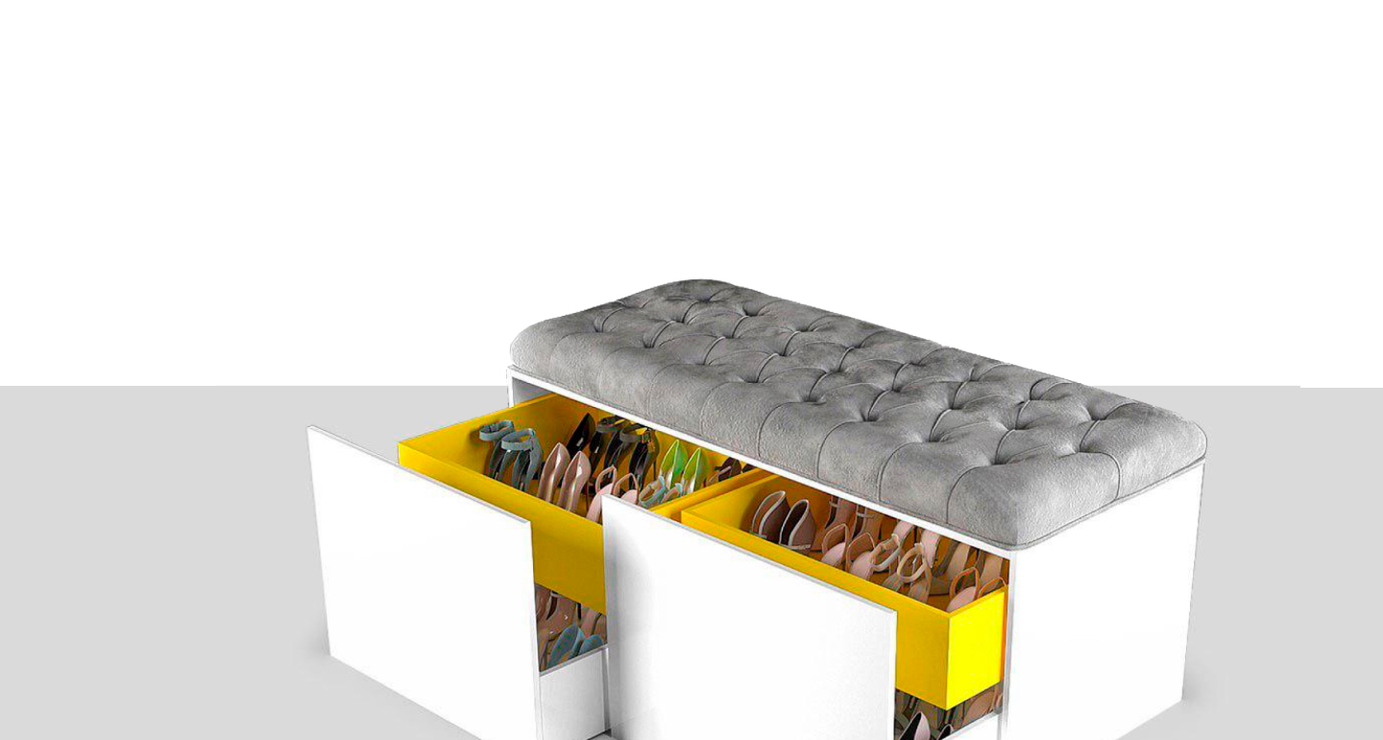
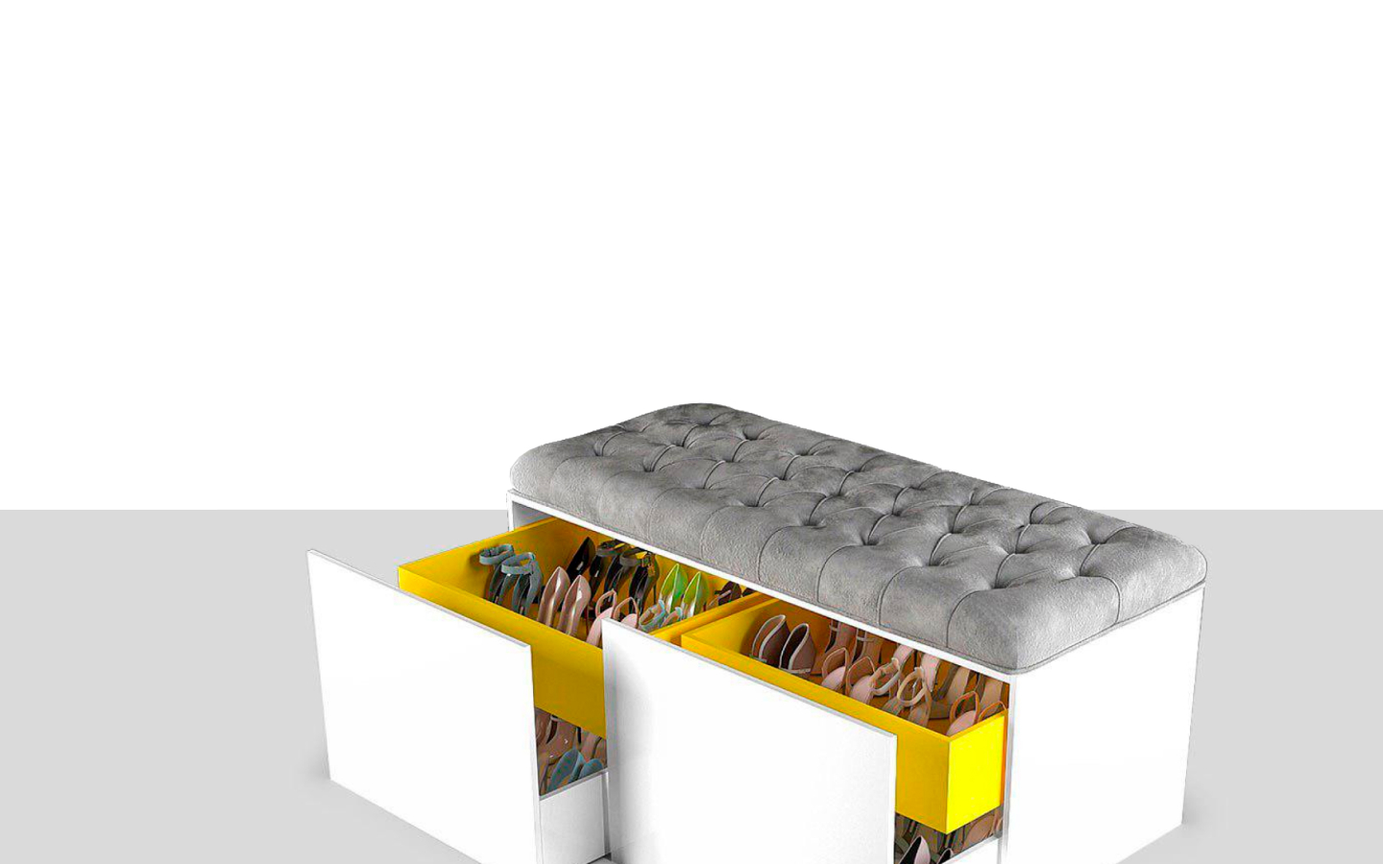
Hero

diff --git a/src/css/main.min.css b/src/css/main.min.css
@@ -1,1 +1,1 @@
-@font-face{font-family:'TT Norms';src:url(../fonts/norms/subset-TTNorms-Regular.woff2) format("woff2"),url(../fonts/norms/subset-TTNorms-Regular.woff) format("woff");font-style:normal;font-weight:400;font-display:swap}@font-face{font-family:Montserrat;src:url(../fonts/montserrat/Montserrat-Regular.woff2) format("woff2"),url(../fonts/montserrat/Montserrat-Regular.woff) format("woff");font-style:normal;font-weight:400;font-display:swap}@font-face{font-family:Montserrat;src:url(../fonts/montserrat/Montserrat-Medium.woff2) format("woff2"),url(../fonts/montserrat/Montserrat-Medium.woff) format("woff");font-style:normal;font-weight:500;font-display:swap}@font-face{font-family:Montserrat;src:url(../fonts/montserrat/Montserrat-SemiBold.woff2) format("woff2"),url(../fonts/montserrat/Montserrat-SemiBold.woff) format("woff");font-style:normal;font-weight:600;font-display:swap}/*! normalize.css v3.0.3 | MIT License | github.com/necolas/normalize.css */html{font-family:sans-serif;-ms-text-size-adjust:100%;-webkit-text-size-adjust:100%}body{margin:0}article,aside,details,figcaption,figure,footer,header,hgroup,main,menu,nav,section,summary{display:block}audio,canvas,progress,video{display:inline-block;vertical-align:baseline}audio:not([controls]){display:none;height:0}[hidden],template{display:none}a{background-color:transparent}a:active,a:hover{outline:0}abbr[title]{border-bottom:1px dotted}b,strong{font-weight:700}dfn{font-style:italic}small{font-size:80%}sub,sup{font-size:67%;line-height:0;position:relative;vertical-align:baseline}sup{top:-.5em}sub{bottom:-.25em}img{border:0}svg:not(:root){overflow:hidden}hr{-webkit-box-sizing:content-box;box-sizing:content-box;height:0}pre{overflow:auto}code,kbd,pre,samp{font-family:monospace,monospace;font-size:1em}button,input,optgroup,select,textarea{color:inherit;font:inherit;margin:0}button{overflow:visible}button,select{text-transform:none}button,html input[type=button],input[type=reset],input[type=submit]{-webkit-appearance:button;cursor:pointer}button[disabled],html input[disabled]{cursor:default}button::-moz-focus-inner,input::-moz-focus-inner{border:0;padding:0}input{line-height:normal}input[type=checkbox],input[type=radio]{-webkit-box-sizing:border-box;box-sizing:border-box;padding:0}input[type=number]::-webkit-inner-spin-button,input[type=number]::-webkit-outer-spin-button{height:auto}input[type=search]{-webkit-appearance:textfield;-webkit-box-sizing:content-box;box-sizing:content-box}input[type=search]::-webkit-search-cancel-button,input[type=search]::-webkit-search-decoration{-webkit-appearance:none}legend{border:0;padding:0}textarea{overflow:auto}optgroup{font-weight:700}table{border-collapse:collapse;border-spacing:0}td,th{padding:0}blockquote,body,caption,dd,dl,fieldset,figure,form,h1,h2,h3,h4,h5,h6,hr,legend,ol,p,pre,table,td,th,ul{margin:0;padding:0}abbr[title],dfn[title]{cursor:help}ins,u{text-decoration:none}ins{border-bottom:1px solid}a:-webkit-any-link{text-decoration:none}a,a:active,a:focus,a:hover,a:visited{text-decoration:none}button,fieldset,input,textarea{background:0;border:0;outline:0;margin:0;padding:0}ol,ul{padding:0;list-style:none}address{font-style:unset}html{-webkit-box-sizing:border-box;box-sizing:border-box}*,:after,:before{-webkit-box-sizing:inherit;box-sizing:inherit}svg[class^=i-]{stroke-width:1.4}body{font-family:'TT Norms',sans-serif;font-weight:400;font-size:16px;line-height:1.6;color:#1f2020}h1{font-size:27px}h2{font-size:27px}h3{font-size:24px}a,a:active,a:focus,a:visited{color:#1f2020}.container{margin-right:auto;margin-left:auto;padding-left:3.895vw;padding-right:3.895vw}html.has-scroll-smooth{overflow:hidden}html.has-scroll-dragging{-webkit-user-select:none;-moz-user-select:none;-ms-user-select:none;user-select:none}.has-scroll-smooth body{overflow:hidden}.c-scrollbar{position:absolute;right:0;top:0;width:11px;height:100vh;-webkit-transform-origin:center right;-ms-transform-origin:center right;transform-origin:center right;-webkit-transition:opacity .3s,-webkit-transform .3s;transition:opacity .3s,-webkit-transform .3s;-o-transition:transform .3s,opacity .3s;transition:transform .3s,opacity .3s;transition:transform .3s,opacity .3s,-webkit-transform .3s;opacity:0}.c-scrollbar:hover{-webkit-transform:scaleX(1.45);-ms-transform:scaleX(1.45);transform:scaleX(1.45);opacity:1}.has-scroll-dragging .c-scrollbar,.has-scroll-scrolling .c-scrollbar{opacity:1}.c-scrollbar_thumb{position:absolute;top:0;right:0;background-color:#000;opacity:.5;width:7px;border-radius:10px;margin:2px;cursor:-webkit-grab;cursor:grab}.has-scroll-dragging .c-scrollbar_thumb{cursor:-webkit-grabbing;cursor:grabbing}.img{position:relative;width:100%;padding-bottom:56.25%}.img__i{position:absolute;top:0;left:0;width:100%;height:100%}.img__i:not(img){background-size:cover;background-repeat:no-repeat;background-position:center center}img.img__i{-o-object-fit:cover;object-fit:cover}.btn{font-family:Montserrat,sans-serif;font-weight:500;font-size:13px;letter-spacing:-.02em;height:40px;padding:0 24px;border:1px solid #db2145}.btn,.btn:active,.btn:focus,.btn:visited{color:#db2145}a.btn{display:-webkit-box;display:-ms-flexbox;display:flex;-webkit-box-align:center;-ms-flex-align:center;align-items:center;-webkit-box-pack:center;-ms-flex-pack:center;justify-content:center}.link{font-family:Montserrat,sans-serif;font-weight:500}.link,.link:active,.link:focus,.link:visited{color:#db2145}.link::before{content:'';display:inline-block;vertical-align:middle;width:32px;height:1px;margin-right:12px;background:#db2145}.burger{height:24px;display:-webkit-box;display:-ms-flexbox;display:flex;-webkit-box-align:start;-ms-flex-align:start;align-items:flex-start;-webkit-box-pack:start;-ms-flex-pack:start;justify-content:flex-start;-webkit-box-orient:vertical;-webkit-box-direction:normal;-ms-flex-direction:column;flex-direction:column;-webkit-perspective:200px;perspective:200px;-webkit-transform:translateZ(0);transform:translateZ(0);-webkit-transition:opacity .4s cubic-bezier(.165,.84,.44,1);-o-transition:opacity .4s cubic-bezier(.165,.84,.44,1);transition:opacity .4s cubic-bezier(.165,.84,.44,1)}.burger-icon{position:relative;width:32px;height:9px}.burger-icon-bottom,.burger-icon-last,.burger-icon-top{display:block;width:100%;height:2px;position:absolute;left:0;-webkit-transform:translateZ(0);transform:translateZ(0);-webkit-transition:-webkit-transform .6s cubic-bezier(.165,.84,.44,1);transition:-webkit-transform .6s cubic-bezier(.165,.84,.44,1);-o-transition:transform .6s cubic-bezier(.165,.84,.44,1);transition:transform .6s cubic-bezier(.165,.84,.44,1);transition:transform .6s cubic-bezier(.165,.84,.44,1),-webkit-transform .6s cubic-bezier(.165,.84,.44,1)}.burger-icon-bottom::after,.burger-icon-bottom::before,.burger-icon-last::after,.burger-icon-last::before,.burger-icon-top::after,.burger-icon-top::before{content:'';position:absolute;top:0;left:0;width:100%;height:100%;background:#000}.burger-icon-bottom::before,.burger-icon-last::before,.burger-icon-top::before{-webkit-transform-origin:right;-ms-transform-origin:right;transform-origin:right;-webkit-transform:scaleX(1) translateZ(0);transform:scaleX(1) translateZ(0);-webkit-transition:-webkit-transform .6s cubic-bezier(.165,.84,.44,1) .2s;transition:-webkit-transform .6s cubic-bezier(.165,.84,.44,1) .2s;-o-transition:transform .6s cubic-bezier(.165,.84,.44,1) .2s;transition:transform .6s cubic-bezier(.165,.84,.44,1) .2s;transition:transform .6s cubic-bezier(.165,.84,.44,1) .2s,-webkit-transform .6s cubic-bezier(.165,.84,.44,1) .2s}.burger-icon-bottom::after,.burger-icon-last::after,.burger-icon-top::after{-webkit-transform-origin:left;-ms-transform-origin:left;transform-origin:left;-webkit-transform:scaleX(0) translateZ(0);transform:scaleX(0) translateZ(0);-webkit-transition:-webkit-transform .6s cubic-bezier(.165,.84,.44,1);transition:-webkit-transform .6s cubic-bezier(.165,.84,.44,1);-o-transition:transform .6s cubic-bezier(.165,.84,.44,1);transition:transform .6s cubic-bezier(.165,.84,.44,1);transition:transform .6s cubic-bezier(.165,.84,.44,1),-webkit-transform .6s cubic-bezier(.165,.84,.44,1)}.burger-icon-top{top:0}.burger-icon-bottom{bottom:0}.burger-icon-bottom::before{-webkit-transform-origin:left;-ms-transform-origin:left;transform-origin:left}.burger-icon-bottom::after{-webkit-transform-origin:right;-ms-transform-origin:right;transform-origin:right}.burger-icon-last{bottom:-8px}.burger:hover .burger-icon-bottom::before,.burger:hover .burger-icon-last::before,.burger:hover .burger-icon-top::before{-webkit-transform:scaleX(0) translateZ(0);transform:scaleX(0) translateZ(0);-webkit-transition:-webkit-transform .6s cubic-bezier(.165,.84,.44,1);transition:-webkit-transform .6s cubic-bezier(.165,.84,.44,1);-o-transition:transform .6s cubic-bezier(.165,.84,.44,1);transition:transform .6s cubic-bezier(.165,.84,.44,1);transition:transform .6s cubic-bezier(.165,.84,.44,1),-webkit-transform .6s cubic-bezier(.165,.84,.44,1)}.burger:hover .burger-icon-bottom::after,.burger:hover .burger-icon-last::after,.burger:hover .burger-icon-top::after{-webkit-transform:scaleX(1) translateZ(0);transform:scaleX(1) translateZ(0);-webkit-transition:-webkit-transform .6s cubic-bezier(.165,.84,.44,1) .2s;transition:-webkit-transform .6s cubic-bezier(.165,.84,.44,1) .2s;-o-transition:transform .6s cubic-bezier(.165,.84,.44,1) .2s;transition:transform .6s cubic-bezier(.165,.84,.44,1) .2s;transition:transform .6s cubic-bezier(.165,.84,.44,1) .2s,-webkit-transform .6s cubic-bezier(.165,.84,.44,1) .2s}.burger.active .burger-icon-last{opacity:0}.burger.active .burger-icon-top{-webkit-transform:translateY(8px) rotate(45deg) translateZ(0);transform:translateY(8px) rotate(45deg) translateZ(0)}.burger.active .burger-icon-bottom{-webkit-transform:translateY(1px) rotate(-45deg) translateZ(0);transform:translateY(1px) rotate(-45deg) translateZ(0)}.header{z-index:1;position:fixed;top:0;left:0;right:0;width:100%}.header__inner{display:-webkit-box;display:-ms-flexbox;display:flex;-webkit-box-align:center;-ms-flex-align:center;align-items:center;-webkit-transition:opacity .4s cubic-bezier(.165,.84,.44,1);-o-transition:opacity .4s cubic-bezier(.165,.84,.44,1);transition:opacity .4s cubic-bezier(.165,.84,.44,1)}.header__logo{margin-right:5.2vw}.header__logo img{display:block;width:100px;height:85px}.header__nav ul{display:-webkit-box;display:-ms-flexbox;display:flex;-webkit-box-align:center;-ms-flex-align:center;align-items:center}.header__nav li:not(:last-child){margin-right:48px}.header__nav a{-webkit-transition:.25s ease;-o-transition:.25s ease;transition:.25s ease}.header__nav a:hover{opacity:.6}.header__phone{font-family:Montserrat,sans-serif;font-weight:500;font-size:12px;margin-left:auto}.header__btn,.header__burger{position:absolute;top:50%;-webkit-transform:translate(0,-50%);-ms-transform:translate(0,-50%);transform:translate(0,-50%);opacity:0;pointer-events:none}.header--primary .header__inner{opacity:0;pointer-events:none}.header--primary .header__btn,.header--primary .header__burger{opacity:1;pointer-events:auto}.header__btn{-webkit-transition:opacity .4s cubic-bezier(.165,.84,.44,1);-o-transition:opacity .4s cubic-bezier(.165,.84,.44,1);transition:opacity .4s cubic-bezier(.165,.84,.44,1);right:calc(3.895vw + 64px)}.header__burger{right:3.895vw}.u-bg{background-size:cover;background-repeat:no-repeat;background-position:center center}.u-bg-contain{background-size:contain;background-repeat:no-repeat;background-position:center center}.u-ocv{-o-object-fit:cover;object-fit:cover}.u-occ{-o-object-fit:contain;object-fit:contain}.u-scrollbar{-webkit-overflow-scrolling:touch;overflow-x:hidden;overflow-y:auto}.u-scrollbar::-webkit-scrollbar{width:4px;height:4px}.u-scrollbar::-webkit-scrollbar-thumb{background-color:#1f2020}.u-vh{height:100vh;height:calc(var(--vh,1vh) * 100)}.u-ovh{overflow:hidden}.u-w100{width:100%}.u-hidden-v{border:0!important;clip:rect(0 0 0 0)!important;-webkit-clip-path:inset(50%)!important;clip-path:inset(50%)!important;height:1px!important;margin:-1px!important;overflow:hidden!important;padding:0!important;position:absolute!important;white-space:nowrap!important;width:1px!important}.u-hidden{display:none!important}.t-h1{font-size:27px;font-family:Montserrat,sans-serif;font-weight:500;letter-spacing:-.02em}.t-h2{font-size:27px;font-family:Montserrat,sans-serif;font-weight:500;letter-spacing:-.02em}.t-h3{font-size:24px;font-family:Montserrat,sans-serif;font-weight:500;letter-spacing:-.02em}.t-ttu{font-family:Montserrat,sans-serif;font-weight:500;font-size:12px;letter-spacing:.08em;text-transform:uppercase}.t-tar{text-align:right}.t-tal{text-align:left}.t-tac{text-align:center}.u-mla{margin-left:auto}.u-mra{margin-right:auto}.u-mta{margin-top:auto}.u-mba{margin-bottom:auto}.u-flex{display:-webkit-box;display:-ms-flexbox;display:flex}.u-flex-col{-webkit-box-orient:vertical;-webkit-box-direction:normal;-ms-flex-direction:column;flex-direction:column}.u-ais{-webkit-box-align:start;-ms-flex-align:start;align-items:flex-start}.u-aie{-webkit-box-align:end;-ms-flex-align:end;align-items:flex-end}.u-aic{-webkit-box-align:center;-ms-flex-align:center;align-items:center}.u-jcsb{-webkit-box-pack:justify;-ms-flex-pack:justify;justify-content:space-between}.u-jce{-webkit-box-pack:end;-ms-flex-pack:end;justify-content:flex-end}.u-fxw{-ms-flex-wrap:wrap;flex-wrap:wrap}.u-center{display:-webkit-box;display:-ms-flexbox;display:flex;-webkit-box-align:center;-ms-flex-align:center;align-items:center;-webkit-box-pack:center;-ms-flex-pack:center;justify-content:center}@media (min-width:375px){h1{font-size:calc(2.723vw + 16.78873px)}h2{font-size:calc(1.03286vw + 23.12676px)}.t-h1{font-size:calc(2.723vw + 16.78873px)}.t-h2{font-size:calc(1.03286vw + 23.12676px)}}@media (min-width:1440px){h1{font-size:calc(1.66667vw + 32px)}h2{font-size:calc(1.25vw + 20px)}h3{font-size:calc(.83333vw + 12px)}.t-h1{font-size:calc(1.66667vw + 32px)}.t-h2{font-size:calc(1.25vw + 20px)}.t-h3{font-size:calc(.83333vw + 12px)}}@media (min-width:1920px){body{font-size:18px}h1{font-size:calc(1.5873vw + 33.52381px)}h2{font-size:calc(1.26984vw + 19.61905px)}h3{font-size:calc(.95238vw + 9.71429px)}.t-h1{font-size:calc(1.5873vw + 33.52381px)}.t-h2{font-size:calc(1.26984vw + 19.61905px)}.t-h3{font-size:calc(.95238vw + 9.71429px)}}@media (min-width:2550px){h1{font-size:74px}h2{font-size:52px}h3{font-size:34px}.t-h1{font-size:74px}.t-h2{font-size:52px}.t-h3{font-size:34px}}@media (max-width:500px){.burger-icon{width:18px}}
+:root{--unit:3.895vw}@font-face{font-family:'TT Norms';src:url(../fonts/norms/subset-TTNorms-Regular.woff2) format("woff2"),url(../fonts/norms/subset-TTNorms-Regular.woff) format("woff");font-style:normal;font-weight:400;font-display:swap}@font-face{font-family:Montserrat;src:url(../fonts/montserrat/Montserrat-Regular.woff2) format("woff2"),url(../fonts/montserrat/Montserrat-Regular.woff) format("woff");font-style:normal;font-weight:400;font-display:swap}@font-face{font-family:Montserrat;src:url(../fonts/montserrat/Montserrat-Medium.woff2) format("woff2"),url(../fonts/montserrat/Montserrat-Medium.woff) format("woff");font-style:normal;font-weight:500;font-display:swap}@font-face{font-family:Montserrat;src:url(../fonts/montserrat/Montserrat-SemiBold.woff2) format("woff2"),url(../fonts/montserrat/Montserrat-SemiBold.woff) format("woff");font-style:normal;font-weight:600;font-display:swap}/*! normalize.css v3.0.3 | MIT License | github.com/necolas/normalize.css */html{font-family:sans-serif;-ms-text-size-adjust:100%;-webkit-text-size-adjust:100%}body{margin:0}article,aside,details,figcaption,figure,footer,header,hgroup,main,menu,nav,section,summary{display:block}audio,canvas,progress,video{display:inline-block;vertical-align:baseline}audio:not([controls]){display:none;height:0}[hidden],template{display:none}a{background-color:transparent}a:active,a:hover{outline:0}abbr[title]{border-bottom:1px dotted}b,strong{font-weight:700}dfn{font-style:italic}small{font-size:80%}sub,sup{font-size:67%;line-height:0;position:relative;vertical-align:baseline}sup{top:-.5em}sub{bottom:-.25em}img{border:0}svg:not(:root){overflow:hidden}hr{-webkit-box-sizing:content-box;box-sizing:content-box;height:0}pre{overflow:auto}code,kbd,pre,samp{font-family:monospace,monospace;font-size:1em}button,input,optgroup,select,textarea{color:inherit;font:inherit;margin:0}button{overflow:visible}button,select{text-transform:none}button,html input[type=button],input[type=reset],input[type=submit]{-webkit-appearance:button;cursor:pointer}button[disabled],html input[disabled]{cursor:default}button::-moz-focus-inner,input::-moz-focus-inner{border:0;padding:0}input{line-height:normal}input[type=checkbox],input[type=radio]{-webkit-box-sizing:border-box;box-sizing:border-box;padding:0}input[type=number]::-webkit-inner-spin-button,input[type=number]::-webkit-outer-spin-button{height:auto}input[type=search]{-webkit-appearance:textfield;-webkit-box-sizing:content-box;box-sizing:content-box}input[type=search]::-webkit-search-cancel-button,input[type=search]::-webkit-search-decoration{-webkit-appearance:none}legend{border:0;padding:0}textarea{overflow:auto}optgroup{font-weight:700}table{border-collapse:collapse;border-spacing:0}td,th{padding:0}blockquote,body,caption,dd,dl,fieldset,figure,form,h1,h2,h3,h4,h5,h6,hr,legend,ol,p,pre,table,td,th,ul{margin:0;padding:0}abbr[title],dfn[title]{cursor:help}ins,u{text-decoration:none}ins{border-bottom:1px solid}a:-webkit-any-link{text-decoration:none}a,a:active,a:focus,a:hover,a:visited{text-decoration:none}button,fieldset,input,textarea{background:0;border:0;outline:0;margin:0;padding:0}ol,ul{padding:0;list-style:none}address{font-style:unset}html{-webkit-box-sizing:border-box;box-sizing:border-box}*,:after,:before{-webkit-box-sizing:inherit;box-sizing:inherit}svg[class^=i-]{stroke-width:1.4}body{font-family:'TT Norms',sans-serif;font-weight:400;font-size:16px;line-height:1.6;color:#1f2020}h1{font-size:24px}h2{font-size:24px}h3{font-size:24px}a,a:active,a:focus,a:visited{color:#1f2020}.container{margin-right:auto;margin-left:auto;padding-left:var(--unit);padding-right:var(--unit)}html.has-scroll-smooth{overflow:hidden}html.has-scroll-dragging{-webkit-user-select:none;-moz-user-select:none;-ms-user-select:none;user-select:none}.has-scroll-smooth body{overflow:hidden}.c-scrollbar{position:absolute;right:0;top:0;width:11px;height:100vh;-webkit-transform-origin:center right;-ms-transform-origin:center right;transform-origin:center right;-webkit-transition:opacity .3s,-webkit-transform .3s;transition:opacity .3s,-webkit-transform .3s;-o-transition:transform .3s,opacity .3s;transition:transform .3s,opacity .3s;transition:transform .3s,opacity .3s,-webkit-transform .3s;opacity:0}.c-scrollbar:hover{-webkit-transform:scaleX(1.45);-ms-transform:scaleX(1.45);transform:scaleX(1.45);opacity:1}.has-scroll-dragging .c-scrollbar,.has-scroll-scrolling .c-scrollbar{opacity:1}.c-scrollbar_thumb{position:absolute;top:0;right:0;background-color:#000;opacity:.5;width:7px;border-radius:10px;margin:2px;cursor:-webkit-grab;cursor:grab}.has-scroll-dragging .c-scrollbar_thumb{cursor:-webkit-grabbing;cursor:grabbing}.img{position:relative;width:100%;padding-bottom:56.25%}.img__i{position:absolute;top:0;left:0;width:100%;height:100%}.img__i:not(img){background-size:cover;background-repeat:no-repeat;background-position:center center}img.img__i{-o-object-fit:cover;object-fit:cover}.btn{font-family:Montserrat,sans-serif;font-weight:500;font-size:13px;letter-spacing:-.02em;height:40px;padding:0 24px;border:1px solid #db2145}.btn,.btn:active,.btn:focus,.btn:visited{color:#db2145}a.btn{display:-webkit-box;display:-ms-flexbox;display:flex;-webkit-box-align:center;-ms-flex-align:center;align-items:center;-webkit-box-pack:center;-ms-flex-pack:center;justify-content:center}.link{font-family:Montserrat,sans-serif;font-weight:500}.link,.link:active,.link:focus,.link:visited{color:#db2145}.link::before{content:'';display:inline-block;vertical-align:middle;width:32px;height:1px;margin-right:12px;background:#db2145}.burger{height:24px;display:-webkit-box;display:-ms-flexbox;display:flex;-webkit-box-align:start;-ms-flex-align:start;align-items:flex-start;-webkit-box-pack:start;-ms-flex-pack:start;justify-content:flex-start;-webkit-box-orient:vertical;-webkit-box-direction:normal;-ms-flex-direction:column;flex-direction:column;-webkit-perspective:200px;perspective:200px;-webkit-transform:translateZ(0);transform:translateZ(0);-webkit-transition:opacity .4s cubic-bezier(.165,.84,.44,1);-o-transition:opacity .4s cubic-bezier(.165,.84,.44,1);transition:opacity .4s cubic-bezier(.165,.84,.44,1)}.burger-icon{position:relative;width:32px;height:9px}.burger-icon-bottom,.burger-icon-last,.burger-icon-top{display:block;width:100%;height:2px;position:absolute;left:0;-webkit-transform:translateZ(0);transform:translateZ(0);-webkit-transition:-webkit-transform .6s cubic-bezier(.165,.84,.44,1);transition:-webkit-transform .6s cubic-bezier(.165,.84,.44,1);-o-transition:transform .6s cubic-bezier(.165,.84,.44,1);transition:transform .6s cubic-bezier(.165,.84,.44,1);transition:transform .6s cubic-bezier(.165,.84,.44,1),-webkit-transform .6s cubic-bezier(.165,.84,.44,1)}.burger-icon-bottom::after,.burger-icon-bottom::before,.burger-icon-last::after,.burger-icon-last::before,.burger-icon-top::after,.burger-icon-top::before{content:'';position:absolute;top:0;left:0;width:100%;height:100%;background:#000}.burger-icon-bottom::before,.burger-icon-last::before,.burger-icon-top::before{-webkit-transform-origin:right;-ms-transform-origin:right;transform-origin:right;-webkit-transform:scaleX(1) translateZ(0);transform:scaleX(1) translateZ(0);-webkit-transition:-webkit-transform .6s cubic-bezier(.165,.84,.44,1) .2s;transition:-webkit-transform .6s cubic-bezier(.165,.84,.44,1) .2s;-o-transition:transform .6s cubic-bezier(.165,.84,.44,1) .2s;transition:transform .6s cubic-bezier(.165,.84,.44,1) .2s;transition:transform .6s cubic-bezier(.165,.84,.44,1) .2s,-webkit-transform .6s cubic-bezier(.165,.84,.44,1) .2s}.burger-icon-bottom::after,.burger-icon-last::after,.burger-icon-top::after{-webkit-transform-origin:left;-ms-transform-origin:left;transform-origin:left;-webkit-transform:scaleX(0) translateZ(0);transform:scaleX(0) translateZ(0);-webkit-transition:-webkit-transform .6s cubic-bezier(.165,.84,.44,1);transition:-webkit-transform .6s cubic-bezier(.165,.84,.44,1);-o-transition:transform .6s cubic-bezier(.165,.84,.44,1);transition:transform .6s cubic-bezier(.165,.84,.44,1);transition:transform .6s cubic-bezier(.165,.84,.44,1),-webkit-transform .6s cubic-bezier(.165,.84,.44,1)}.burger-icon-top{top:0}.burger-icon-bottom{bottom:0}.burger-icon-bottom::before{-webkit-transform-origin:left;-ms-transform-origin:left;transform-origin:left}.burger-icon-bottom::after{-webkit-transform-origin:right;-ms-transform-origin:right;transform-origin:right}.burger-icon-last{bottom:-8px}.burger:hover .burger-icon-bottom::before,.burger:hover .burger-icon-last::before,.burger:hover .burger-icon-top::before{-webkit-transform:scaleX(0) translateZ(0);transform:scaleX(0) translateZ(0);-webkit-transition:-webkit-transform .6s cubic-bezier(.165,.84,.44,1);transition:-webkit-transform .6s cubic-bezier(.165,.84,.44,1);-o-transition:transform .6s cubic-bezier(.165,.84,.44,1);transition:transform .6s cubic-bezier(.165,.84,.44,1);transition:transform .6s cubic-bezier(.165,.84,.44,1),-webkit-transform .6s cubic-bezier(.165,.84,.44,1)}.burger:hover .burger-icon-bottom::after,.burger:hover .burger-icon-last::after,.burger:hover .burger-icon-top::after{-webkit-transform:scaleX(1) translateZ(0);transform:scaleX(1) translateZ(0);-webkit-transition:-webkit-transform .6s cubic-bezier(.165,.84,.44,1) .2s;transition:-webkit-transform .6s cubic-bezier(.165,.84,.44,1) .2s;-o-transition:transform .6s cubic-bezier(.165,.84,.44,1) .2s;transition:transform .6s cubic-bezier(.165,.84,.44,1) .2s;transition:transform .6s cubic-bezier(.165,.84,.44,1) .2s,-webkit-transform .6s cubic-bezier(.165,.84,.44,1) .2s}.burger.active .burger-icon-last{opacity:0}.burger.active .burger-icon-top{-webkit-transform:translateY(8px) rotate(45deg) translateZ(0);transform:translateY(8px) rotate(45deg) translateZ(0)}.burger.active .burger-icon-bottom{-webkit-transform:translateY(1px) rotate(-45deg) translateZ(0);transform:translateY(1px) rotate(-45deg) translateZ(0)}.header{z-index:1;position:fixed;top:0;left:0;right:0;width:100%}.header__inner{display:-webkit-box;display:-ms-flexbox;display:flex;-webkit-box-align:center;-ms-flex-align:center;align-items:center;-webkit-transition:opacity .4s cubic-bezier(.165,.84,.44,1);-o-transition:opacity .4s cubic-bezier(.165,.84,.44,1);transition:opacity .4s cubic-bezier(.165,.84,.44,1)}.header__logo{margin-right:5.2vw}.header__logo img{display:block;width:100px;height:85px}.header__nav ul{display:-webkit-box;display:-ms-flexbox;display:flex;-webkit-box-align:center;-ms-flex-align:center;align-items:center}.header__nav li:not(:last-child){margin-right:48px}.header__nav a{-webkit-transition:.25s ease;-o-transition:.25s ease;transition:.25s ease}.header__nav a:hover{opacity:.6}.header__phone{font-family:Montserrat,sans-serif;font-weight:500;font-size:12px;margin-left:auto}.header__btn,.header__burger{position:absolute;top:50%;-webkit-transform:translate(0,-50%);-ms-transform:translate(0,-50%);transform:translate(0,-50%);opacity:0;pointer-events:none}.header--primary .header__btn,.header--primary .header__burger{opacity:1;pointer-events:auto}.header__btn{-webkit-transition:opacity .4s cubic-bezier(.165,.84,.44,1);-o-transition:opacity .4s cubic-bezier(.165,.84,.44,1);transition:opacity .4s cubic-bezier(.165,.84,.44,1);right:calc(var(--unit) + 64px)}.header__burger{right:var(--unit)}.hero{min-height:100vh;position:relative}.hero__bg.img__i{z-index:-1;background-position:center bottom}.hero__text{padding-top:18vh;padding-left:calc(var(--unit) + 100px + 5.2vw);max-width:80%}.hero__title{line-height:1.21;margin-bottom:16px}.u-bg{background-size:cover;background-repeat:no-repeat;background-position:center center}.u-bg-contain{background-size:contain;background-repeat:no-repeat;background-position:center center}.u-ocv{-o-object-fit:cover;object-fit:cover}.u-occ{-o-object-fit:contain;object-fit:contain}.u-scrollbar{-webkit-overflow-scrolling:touch;overflow-x:hidden;overflow-y:auto}.u-scrollbar::-webkit-scrollbar{width:4px;height:4px}.u-scrollbar::-webkit-scrollbar-thumb{background-color:#1f2020}.u-vh{height:100vh;height:calc(var(--vh,1vh) * 100)}.u-ovh{overflow:hidden}.u-w100{width:100%}.u-hidden-v{border:0!important;clip:rect(0 0 0 0)!important;-webkit-clip-path:inset(50%)!important;clip-path:inset(50%)!important;height:1px!important;margin:-1px!important;overflow:hidden!important;padding:0!important;position:absolute!important;white-space:nowrap!important;width:1px!important}.u-hidden{display:none!important}.t-h1{font-size:24px;font-family:Montserrat,sans-serif;font-weight:500;letter-spacing:-.02em}.t-h2{font-size:24px;font-family:Montserrat,sans-serif;font-weight:500;letter-spacing:-.02em}.t-h3{font-size:24px;font-family:Montserrat,sans-serif;font-weight:500;letter-spacing:-.02em}.t-ttu{font-family:Montserrat,sans-serif;font-weight:500;font-size:12px;letter-spacing:.08em;text-transform:uppercase}.t-tar{text-align:right}.t-tal{text-align:left}.t-tac{text-align:center}.u-mla{margin-left:auto}.u-mra{margin-right:auto}.u-mta{margin-top:auto}.u-mba{margin-bottom:auto}.u-flex{display:-webkit-box;display:-ms-flexbox;display:flex}.u-flex-col{-webkit-box-orient:vertical;-webkit-box-direction:normal;-ms-flex-direction:column;flex-direction:column}.u-ais{-webkit-box-align:start;-ms-flex-align:start;align-items:flex-start}.u-aie{-webkit-box-align:end;-ms-flex-align:end;align-items:flex-end}.u-aic{-webkit-box-align:center;-ms-flex-align:center;align-items:center}.u-jcsb{-webkit-box-pack:justify;-ms-flex-pack:justify;justify-content:space-between}.u-jce{-webkit-box-pack:end;-ms-flex-pack:end;justify-content:flex-end}.u-fxw{-ms-flex-wrap:wrap;flex-wrap:wrap}.u-center{display:-webkit-box;display:-ms-flexbox;display:flex;-webkit-box-align:center;-ms-flex-align:center;align-items:center;-webkit-box-pack:center;-ms-flex-pack:center;justify-content:center}@media (min-width:375px){h1{font-size:calc(3.00469vw + 12.73239px)}h2{font-size:calc(1.31455vw + 19.07042px)}.t-h1{font-size:calc(3.00469vw + 12.73239px)}.t-h2{font-size:calc(1.31455vw + 19.07042px)}}@media (min-width:501px){.hero__bg.hero__bg--mob{display:none}}@media (min-width:1001px){.header--primary .header__inner{opacity:0;pointer-events:none}}@media (min-width:1440px){h1{font-size:calc(1.66667vw + 32px)}h2{font-size:calc(1.25vw + 20px)}h3{font-size:calc(.83333vw + 12px)}.t-h1{font-size:calc(1.66667vw + 32px)}.t-h2{font-size:calc(1.25vw + 20px)}.t-h3{font-size:calc(.83333vw + 12px)}}@media (min-width:1920px){body{font-size:18px}h1{font-size:calc(1.5873vw + 33.52381px)}h2{font-size:calc(1.26984vw + 19.61905px)}h3{font-size:calc(.95238vw + 9.71429px)}.t-h1{font-size:calc(1.5873vw + 33.52381px)}.t-h2{font-size:calc(1.26984vw + 19.61905px)}.t-h3{font-size:calc(.95238vw + 9.71429px)}}@media (min-width:2550px){h1{font-size:74px}h2{font-size:52px}h3{font-size:34px}.t-h1{font-size:74px}.t-h2{font-size:52px}.t-h3{font-size:34px}}@media (max-width:1300px){.header__nav li:not(:last-child){margin-right:32px}}@media (max-width:1100px){.header__nav li:not(:last-child){margin-right:24px}}@media (max-width:1000px){.burger{height:12px}.burger-icon{width:18px;height:7px}.burger-icon-last{bottom:-5px}.burger.active .burger-icon-top{-webkit-transform:translateY(6px) rotate(45deg) translateZ(0);transform:translateY(6px) rotate(45deg) translateZ(0)}.header__inner{padding-top:10px;padding-bottom:10px}.header__logo img{width:70px;height:60px}.header__nav{display:none}.header__phone{margin-right:42px}.header--primary{background:#fff}.header--primary .header__phone{opacity:0;pointer-events:none}.header__btn{right:calc(var(--unit) + 42px)}.header__burger{opacity:1;pointer-events:auto}}@media (max-width:700px){.hero__text{padding-left:var(--unit)}}@media (max-width:500px){:root{--unit:16px}.hero__bg:not(.hero__bg--mob){display:none}.hero__text{max-width:100%;padding-right:var(--unit);padding-top:17.4vh}}

diff --git a/src/sass/components/_header.sass b/src/sass/components/_header.sass
@@ -12,6 +12,10 @@
   align-items: center
   transition: opacity $trs-burger
 
+  @media (max-width: 1000px)
+    padding-top: 10px
+    padding-bottom: 10px
+
 .header__logo
   margin-right: 5.2vw
 
@@ -20,12 +24,26 @@
   width: 100px
   height: 85px
 
+  @media (max-width: 1000px)
+    width: 70px
+    height: 60px
+
+.header__nav
+  @media (max-width: 1000px)
+    display: none
+
 .header__nav ul
   display: flex
   align-items: center
 
 .header__nav li:not(:last-child)
   margin-right: 48px
+
+  @media (max-width: 1300px)
+    margin-right: 32px
+
+  @media (max-width: 1100px)
+    margin-right: 24px
 
 .header__nav a
   transition: $trs
@@ -37,6 +55,8 @@
   font-size: 12px
 
   margin-left: auto
+  @media (max-width: 1000px)
+    margin-right: 42px
 
 .header__btn,
 .header__burger
@@ -48,9 +68,18 @@
   pointer-events: none
 
 .header--primary
+  @media (max-width: 1000px)
+    background: #fff
+
+  .header__phone
+    @media (max-width: 1000px)
+      opacity: 0
+      pointer-events: none
+
   .header__inner
-    opacity: 0
-    pointer-events: none
+    @media (min-width: 1001px)
+      opacity: 0
+      pointer-events: none
 
   .header__btn,
   .header__burger
@@ -61,6 +90,12 @@
   transition: opacity $trs-burger
   right: calc(#{$unit} + 64px)
 
+  @media (max-width: 1000px)
+    right: calc(#{$unit} + 42px)
+
 .header__burger
   right: $unit
+  @media (max-width: 1000px)
+    opacity: 1
+    pointer-events: auto
   

diff --git a/src/html/pages/index.html b/src/html/pages/index.html
@@ -1,13 +1,22 @@
 @include('../includes/pre-head.html')
 
 <main id="js-scroll">
-  <section
-    style="height: 100vh; border: 1px solid red; background: grey;"
-  ></section>
-  <section
-    id="about"
-    style="height: 100vh; border: 1px solid red; background: grey;"
-  ></section>
+  <section class="hero">
+    <div
+      class="hero__bg img__i"
+      style="background-image: url(/img/hero.jpg)"
+    ></div>
+    <div
+      class="hero__bg hero__bg--mob img__i"
+      style="background-image: url(/img/hero-mob.jpg)"
+    ></div>
+    <div class="hero__text">
+      <h1 class="hero__title t-h1">
+        Банкетки с системой хранения от 35.000 руб
+      </h1>
+      <a href="#" class="link">Скачать каталог</a>
+    </div>
+  </section>
 </main>
 
 <!-- footer -->

diff --git a/src/index.html b/src/index.html
@@ -82,13 +82,22 @@
 
 
 <main id="js-scroll">
-  <section
-    style="height: 100vh; border: 1px solid red; background: grey;"
-  ></section>
-  <section
-    id="about"
-    style="height: 100vh; border: 1px solid red; background: grey;"
-  ></section>
+  <section class="hero">
+    <div
+      class="hero__bg img__i"
+      style="background-image: url(/img/hero.jpg)"
+    ></div>
+    <div
+      class="hero__bg hero__bg--mob img__i"
+      style="background-image: url(/img/hero-mob.jpg)"
+    ></div>
+    <div class="hero__text">
+      <h1 class="hero__title t-h1">
+        Банкетки с системой хранения от 35.000 руб
+      </h1>
+      <a href="#" class="link">Скачать каталог</a>
+    </div>
+  </section>
 </main>
 
 <!-- footer -->

diff --git a/src/sass/components/_burger.sass b/src/sass/components/_burger.sass
@@ -9,13 +9,17 @@
   transform: translateZ(0)
   transition: opacity $trs-burger
 
+  @media (max-width: 1000px)
+    height: 12px
+
   &-icon
     position: relative
     width: 32px
     height: 9px
 
-    @media (max-width: 500px)
+    @media (max-width: 1000px)
       width: 18px
+      height: 7px
 
     &-top,
     &-bottom,
@@ -63,6 +67,8 @@
 
     &-last
       bottom: -8px
+      @media (max-width: 1000px)
+        bottom: -5px
 
   &:hover
     .burger-icon
@@ -81,5 +87,8 @@
       opacity: 0
     .burger-icon-top
       transform: translateY(8px) rotate(45deg) translateZ(0)
+      @media (max-width: 1000px)
+        transform: translateY(6px) rotate(45deg) translateZ(0)
+
     .burger-icon-bottom
       transform: translateY(1px) rotate(-45deg) translateZ(0)

diff --git a/src/sass/components/_hero.sass b/src/sass/components/_hero.sass
@@ -1,0 +1,33 @@
+.hero
+  min-height: 100vh
+  position: relative
+
+.hero__bg:not(.hero__bg--mob)
+  @media (max-width: 500px)
+    display: none
+
+.hero__bg.hero__bg--mob
+  @media (min-width: 501px)
+    display: none
+
+.hero__bg.img__i
+  z-index: -1
+  background-position: center bottom
+
+.hero__text
+  // padding-top: 19.5vh
+  padding-top: 18vh
+  padding-left: calc(#{$unit} + 100px + 5.2vw)
+  max-width: 80%
+
+  @media (max-width: 700px)
+    padding-left: $unit
+
+  @media (max-width: 500px)
+    max-width: 100%
+    padding-right: $unit
+    padding-top: 17.4vh
+
+.hero__title
+  line-height: 1.21
+  margin-bottom: 16px

diff --git a/src/sass/elements/_headings.sass b/src/sass/elements/_headings.sass
@@ -1,10 +1,10 @@
 /* Заголовки */
 
 =heading-size-1
-  +yo('font-size', (375px: 27px, 1440px: 56px, 1920px: 64px, 2550px: 74px))
+  +yo('font-size', (375px: 24px, 1440px: 56px, 1920px: 64px, 2550px: 74px))
 
 =heading-size-2
-  +yo('font-size', (375px: 27px, 1440px: 38px, 1920px: 44px, 2550px: 52px))
+  +yo('font-size', (375px: 24px, 1440px: 38px, 1920px: 44px, 2550px: 52px))
 
 =heading-size-3
   +yo('font-size', (1440px: 24px, 1920px: 28px, 2550px: 34px))

diff --git a/src/sass/settings/_config.sass b/src/sass/settings/_config.sass
@@ -19,4 +19,9 @@ $trs-burger: 0.4s cubic-bezier(.165,.84,.44,1)
 
 
 // Blocks
-$unit: 3.895vw !default
+\:root
+  --unit: 3.895vw
+  @media (max-width: 500px)
+    --unit: 16px
+
+$unit: var(--unit) !default

diff --git a/src/sass/main.sass b/src/sass/main.sass
@@ -48,6 +48,7 @@
 @import "components/footer"
 
 // Views
+@import "components/hero"
 
 
 /* Utils */
